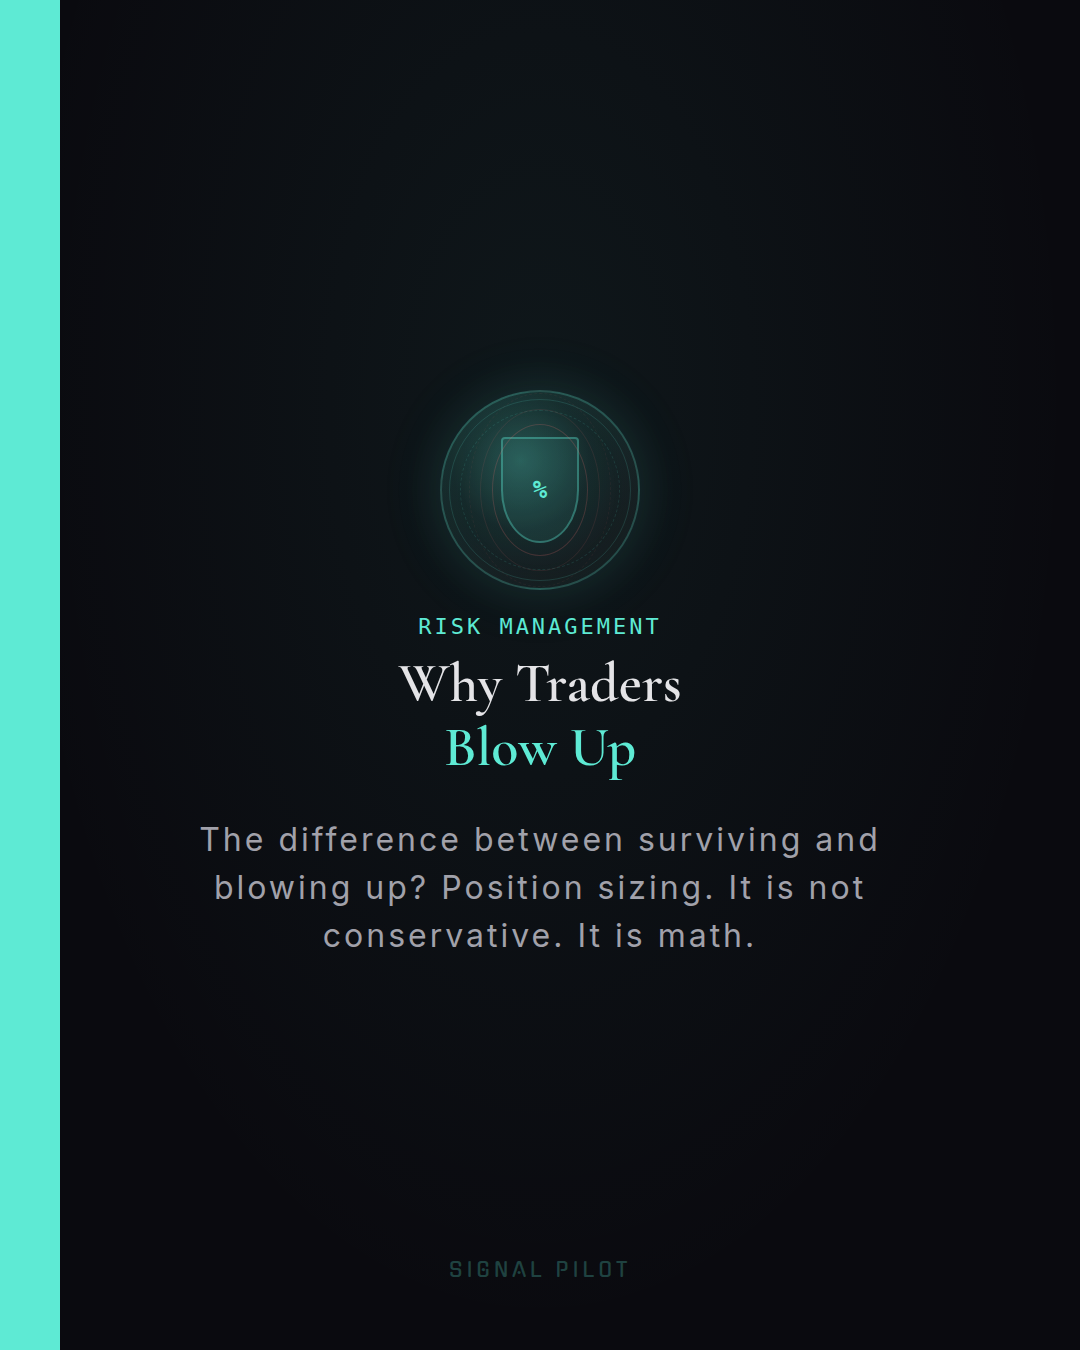
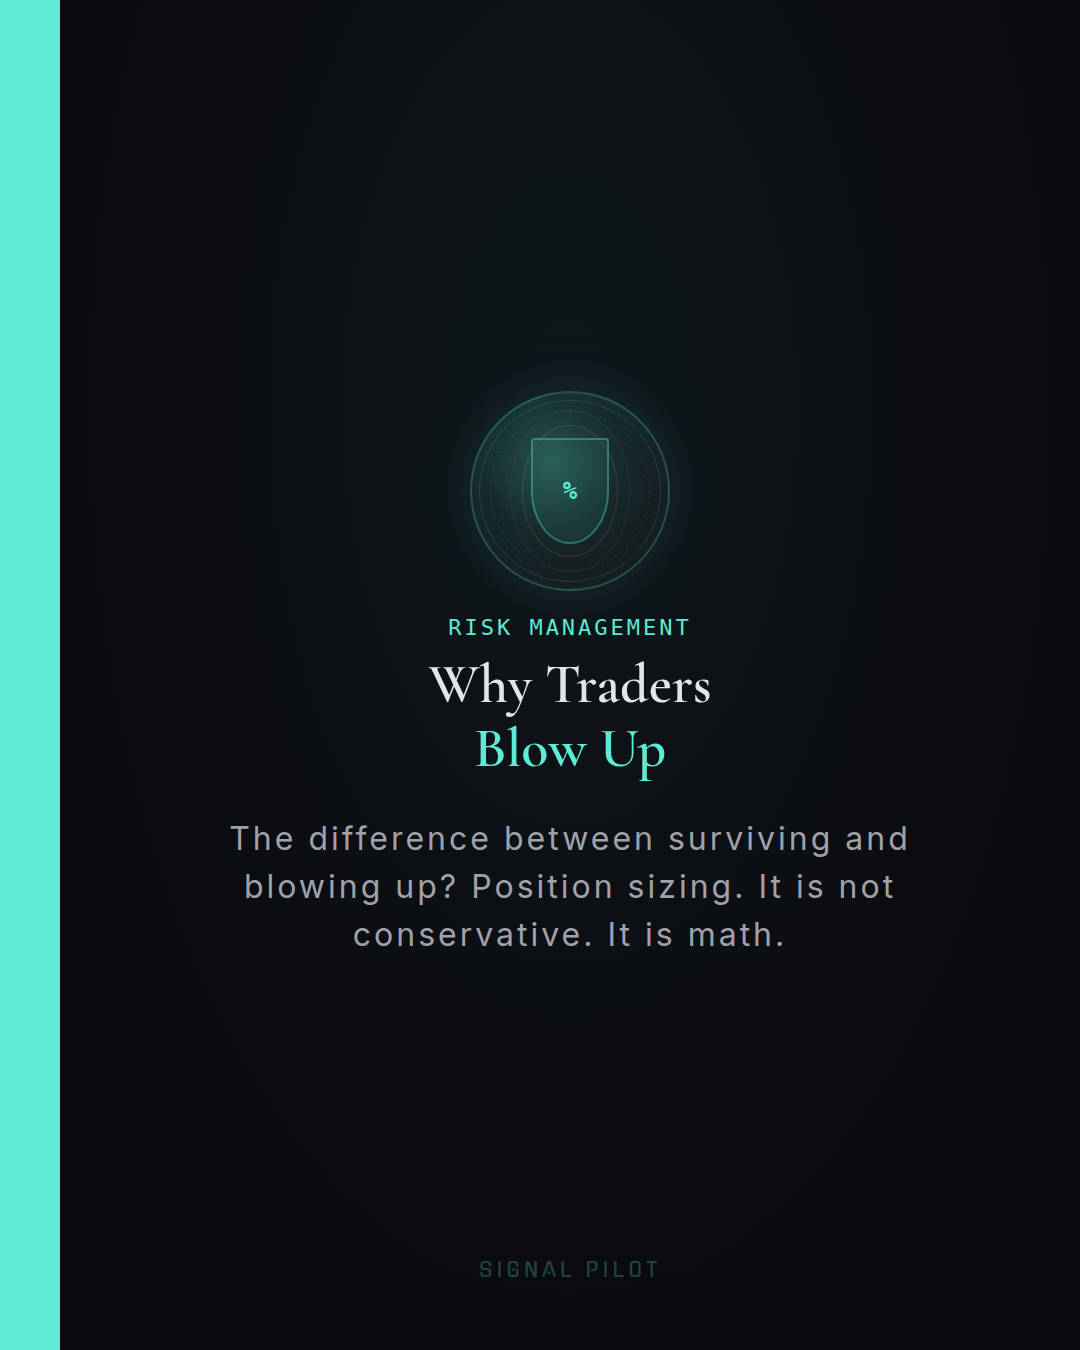
Switch column line from ::after to border padding for Instagram grid visibility
https://claude.ai/code/session_011gVZZQoetPmCJjDwuDyeN6

Changed region(s): [[0.1833, 0.28, 0.825, 0.7156], [0.4278, 0.9333, 0.6111, 0.9644]]

diff --git a/INSTAGRAM_CONTENT_HUB/social/post-033/carousel.html b/INSTAGRAM_CONTENT_HUB/social/post-033/carousel.html
@@ -43,7 +43,7 @@ body{background:var(--bg);color:var(--txt);font-family:var(--sans);min-height:10
 /* ── Slide Backgrounds (teal theme) ── */
 .slide-wrapper::before{content:'';position:absolute;inset:0;z-index:1;pointer-events:none;}
 .s1::before{background:radial-gradient(ellipse at 50% 30%,rgba(94,234,212,0.06) 0%,transparent 70%);}
-.s1::after{content:'';position:absolute;top:0;left:0;width:60px;height:100%;background:rgba(94,234,212,1);z-index:5;}
+.s1{border-left:60px solid #5eead4;}
 .s2::before{background:radial-gradient(ellipse at 30% 60%,rgba(248,113,113,0.04) 0%,transparent 65%);}
 .s3::before{background:radial-gradient(ellipse at 70% 40%,rgba(94,234,212,0.04) 0%,transparent 65%);}
 .s4::before{background:radial-gradient(ellipse at 50% 70%,rgba(94,234,212,0.04) 0%,transparent 65%);}

diff --git a/INSTAGRAM_CONTENT_HUB/social/post-035/carousel.html b/INSTAGRAM_CONTENT_HUB/social/post-035/carousel.html
@@ -45,7 +45,7 @@ body{background:var(--bg);color:var(--txt);font-family:var(--sans);min-height:10
 /* ── Slide Backgrounds ── */
 .slide-wrapper::before{content:'';position:absolute;inset:0;z-index:1;pointer-events:none;}
 .s1::before{background:radial-gradient(ellipse at 50% 30%,rgba(245,158,11,0.06) 0%,transparent 70%);}
-.s1::after{content:'';position:absolute;top:0;right:0;width:60px;height:100%;background:rgba(245,158,11,1);z-index:5;}
+.s1{border-right:60px solid #f59e0b;}
 .s2::before{background:radial-gradient(ellipse at 30% 60%,rgba(245,158,11,0.04) 0%,transparent 65%);}
 .s3::before{background:radial-gradient(ellipse at 70% 40%,rgba(245,158,11,0.04) 0%,transparent 65%);}
 .s4::before{background:radial-gradient(ellipse at 50% 70%,rgba(245,158,11,0.04) 0%,transparent 65%);}
